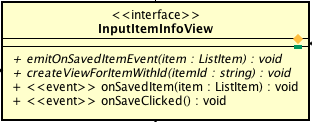
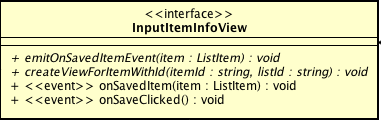
[DDT] - Aggiunto parametro a metodi di due classi in seguito a modifiche.

Changed region(s): [[0.0, 0.0, 1.0, 1.0]]

diff --git a/2 - RP/Esterni/Definizione di Prodotto/Sezioni/SottosezioniST/Input-ModifyItem.tex b/2 - RP/Esterni/Definizione di Prodotto/Sezioni/SottosezioniST/Input-ModifyItem.tex
@@ -19,11 +19,13 @@
 			\item \textit{item:ListItem}\\
 			L'oggetto le cui informazioni sono state salvate.
 			\end{itemize}}
-	\item \textit{public createViewForItemWithId(itemId:string):void}\\
+	\item \textit{public createViewForItemWithId(itemId:string,listId:string):void}\\
 	Il metodo crea una view per l'inserimento delle informazioni di un oggetto, a partire dal suo id.
 			\item{\textbf{Parametri}: \begin{itemize}
 			\item \textit{itemId:string}\\
 			L'id dell'oggetto del quale si vogliono inserire le informazioni.
+			\item \textit{listId:string}\\
+			Id della lista a cui appartiene l'oggetto da modificare.
 			\end{itemize}}
 	\end{itemize}
 \item \textbf{Eventi}:
@@ -60,11 +62,13 @@ Evento che rappresenta il click dell'utente sulla componente grafica necessaria 
 	\begin{itemize}
 	\item \textit{InputItemInfoViewImpl():InputItemInfoViewImpl}\\
 	Il costruttore della classe InputItemInfoViewImpl.
-	\item \textit{public createViewForItemWithId(itemId:string):void}\\
+	\item \textit{public createViewForItemWithId(itemId:string,listId:string):void}\\
 	Il metodo crea una view per l'inserimento delle informazioni di un oggetto, a partire dal suo id.
 			\item{\textbf{Parametri}: \begin{itemize}
 			\item \textit{itemId:string}\\
 			L'id dell'oggetto del quale si vogliono inserire le informazioni.
+			\item \textit{listId:string}\\
+			Id della lista a cui appartiene l'oggetto da modificare.
 			\end{itemize}}
 	\item \textit{public renderView():string}\\
 	Genera il codice HTML CSS JS necessario per visualizzare la componente grafica della lista-spesa necessaria all'inserimento delle informazioni di un oggetto nella lista.

diff --git a/2 - RP/Esterni/Definizione di Prodotto/DefinizioneDiProdotto.tex b/2 - RP/Esterni/Definizione di Prodotto/DefinizioneDiProdotto.tex
@@ -35,6 +35,6 @@
 \input{Sezioni/6-TracciamentoRequisitiClassi.tex}
 \input{Sezioni/7-TracciamentoClassiRequisiti.tex}
 
-\input{Sezioni/Appendice.tex}
+%\input{Sezioni/Appendice.tex}
 
 \end{document}
